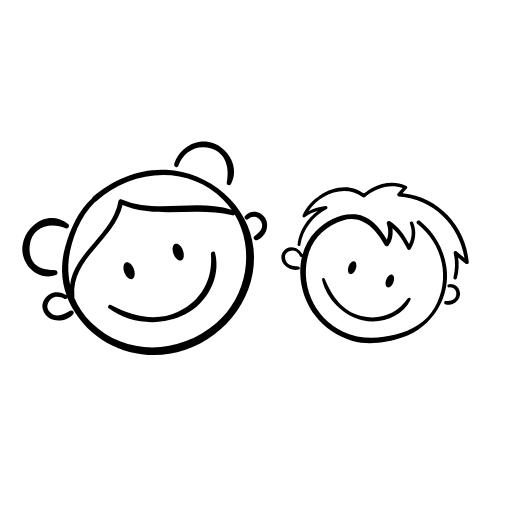
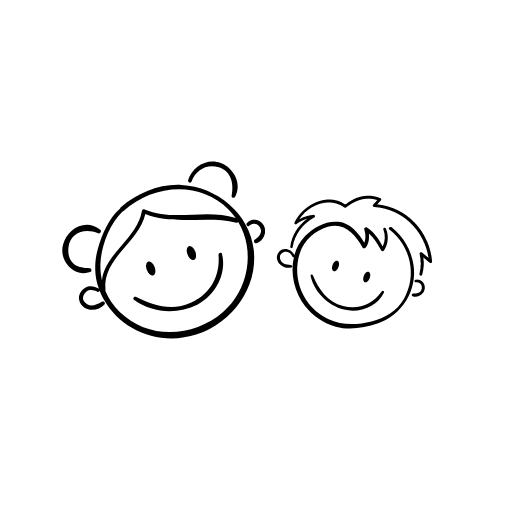
Dyeing the hair red, and minor corrections

Changed region(s): [[0.0312, 0.25, 0.5312, 0.7188], [0.5312, 0.3438, 0.9375, 0.6875]]

diff --git a/pages/index.vue b/pages/index.vue
@@ -3,7 +3,7 @@
 		<div class="home__greeting">
 			<svg class="greeting__picture" xmlns="http://www.w3.org/2000/svg" xmlns:xlink="http://www.w3.org/1999/xlink" width="800" height="400" viewBox="0 0 800 400">
 				<g id="greeting-svg" clip-path="url(#clip-greeting-picture)">
-					<g id="girl" transform="translate(22.737 155.001)"><path id="Path_81" data-name="Path 81" d="M-489.63,164.96s2.861,4.049,3.741,19.675-3.741,32.792-3.741,32.792a133.15,133.15,0,0,0-9.683,20.247c-3.961,10.784-3.3,22.448-3.3,22.448s4.181-5.722,16.726-4.622,19.587,5.722,31.031,4.622,31.845-10.189,51.212-33.077c-14.305-2-23.746-9.441-44.06-42.409-9.531-8.9-16.88-17.672-32.616-23.68Z" transform="translate(580.002 -96.954)" fill="#ffd324"/><path id="Path_83" data-name="Path 83" d="M190.258,1333.521c.286-3.433,9.155-18.024,21.458-14.019s6.866,27.466,6.866,27.466a74.518,74.518,0,0,0-15.163-9.441C195.245,1334.409,190.068,1335.8,190.258,1333.521Z" transform="translate(-103.737 -1367.001)" fill="#eb4d4d"/><path id="Path_84" data-name="Path 84" d="M30.159-.864S15.281-10.305,3.837,2.855C-4.174,14.3,11.562,22.31,11.562,22.31s9.155,3.147,13.447,0a49.615,49.615,0,0,1,1.144-10.872A86.637,86.637,0,0,1,30.159-.864Z" fill="#eb4d4d"/><g id="Layer_1-2" data-name="Layer 1" transform="translate(0.002 -51.001)"><path id="Path_40" data-name="Path 40" d="M42.329,126c2.178-1.755,5.289-1.061,7.448.174a1.14,1.14,0,0,0,1.587-.7,45.256,45.256,0,0,0,2.57,5.472c12.736,22.887,40,32.789,64.729,24.576,24.4-8.113,42.172-32.127,39.347-58.174C155.274,72.1,132.7,53.572,107.995,52.241c-15.433-.828-30.341,5.565-41.941,15.418a1.618,1.618,0,0,0-.523.8C57.495,75.542,52.937,86.433,50.106,96.5a45.1,45.1,0,0,0,.747,27.581c-2.8-1.711-6.4-2.489-9.411-.744-2.952,1.7-5.052,5.158-4.187,8.636,1.944,7.871,12.621,8.493,17.44,2.934,1.048-1.207-.572-2.616-1.8-1.9-4.044,2.352-8.729,4.529-12.2-.1C38.954,130.59,40.385,127.572,42.329,126Zm104.91-48.166c11.865,19.729,7.326,46.838-10.493,62.219-20.613,17.779-51.585,19.375-71.638-.171a43.752,43.752,0,0,1-9.827-14.5,1.142,1.142,0,0,0,.124-.622C53.423,102.955,78.416,92.247,82.98,72.412c19.835,8.2,42.365.594,62.94,5.911a1.2,1.2,0,0,0,1.319-.488ZM52.2,103.164C53.6,91.918,58.8,78.587,67.21,70.6a1.422,1.422,0,0,0,.728-.361C88.371,52,120.2,49.006,140.51,69.227a44.643,44.643,0,0,1,5.005,5.939c-20.408-6.713-42.822,2.61-62.984-5.967a1.4,1.4,0,0,0-1.941,1.045c-3.042,18.554-25.435,29.47-27.628,47.88a43.354,43.354,0,0,1-.759-14.96Z" transform="translate(-25.531 -35.939)" fill="#303030"/><path id="Path_41" data-name="Path 41" d="M411.227,133.848A4.671,4.671,0,0,1,419,135.584c1.475,3.481-1.378,6.091-3.9,7.855a1.391,1.391,0,0,0,1.316,2.411c4.847-1.587,7.36-7.877,4.865-12.332-2.427-4.324-8.415-5.469-11.741-1.456C408.663,133.12,410.172,134.818,411.227,133.848Z" transform="translate(-281.956 -89.274)" fill="#303030"/><path id="Path_42" data-name="Path 42" d="M191.276,232.138c1.493-.551,1.919-3.13.933-5.758s-2.968-4.312-4.461-3.761-1.916,3.13-.933,5.758S189.782,232.689,191.276,232.138Z" transform="translate(-128.333 -153.292)" fill="#303030"/><path id="Path_43" data-name="Path 43" d="M281.76,197.9c1.493-.551,1.919-3.13.949-5.755s-2.968-4.315-4.461-3.761-1.916,3.111-.933,5.755S280.273,198.46,281.76,197.9Z" transform="translate(-190.679 -129.709)" fill="#303030"/><path id="Path_44" data-name="Path 44" d="M198.1,237.471c-13.1,6.153-26.359,2.277-38.47-3.948a1.171,1.171,0,0,0-1.219,1.966c12.422,9.267,30.129,10.4,43.8,3.441,12.478-6.356,20.607-21.26,17.079-35.153-.358-1.4-2.489-.759-2.386.588C218.151,218.858,211.438,231.209,198.1,237.471Z" transform="translate(-108.84 -139.841)" fill="#303030"/><path id="Path_45" data-name="Path 45" d="M344.465,441.624c.849-1.244.426-3.338-1.332-3.49-19.714-1.717-29.221-21.269-39.344-35.6-7.466-10.555-22.75-26.038-36.459-27.55-2.178-.243-3.722,1.049-1.532,1.372,8.4,1.244,20.088,11.777,25.653,17.735,5.733,6.15,10.422,13.085,15.016,20.1,7.914,12.086,17.707,24.94,32.509,27.734-10.288,13.8-26.39,26.222-43.164,29.554-16.6,3.3-34.625-9.495-50.229-1.1a58.607,58.607,0,0,1,4.523-21.879c2.884-6.978,7.071-13.066,9.373-20.342,4.25-13.553,4.079-35.106-.488-48.556-.6-1.767-3.136-1.7-2.654.036,4.218,15.194,3.459,38.8-2.567,53.395-2.918,7.071-7.227,13.206-9.526,20.588a59.092,59.092,0,0,0-2.339,20.317,1.88,1.88,0,0,0,2.955,1.3c8.711-6.452,19.515-3.938,29.218-1.664,9.541,2.234,18.23,2.881,27.765.311,9.022-2.436,16.83-7.886,24.231-13.377A80.04,80.04,0,0,0,344.465,441.624Z" transform="translate(-166.599 -259.697)" fill="#303030"/><path id="Path_46" data-name="Path 46" d="M209.462,412.661a140.122,140.122,0,0,1-9.18,27.124c-4.383,9.2-10.307,17.216-16.522,25.223a1.191,1.191,0,0,0,1.842,1.509c13.859-13.766,23.668-34.18,26.692-53.408A1.434,1.434,0,0,0,209.462,412.661Z" transform="translate(-126.401 -283.492)" fill="#303030"/><path id="Path_47" data-name="Path 47" d="M365.227,262.646a1.208,1.208,0,0,0,1.419,1.954c19.328-12.951,37.462-30.484,49.815-50.288.815-1.307-.911-2.853-1.9-1.555-6.844,8.935-13.644,17.732-21.465,25.867A226.691,226.691,0,0,1,365.227,262.646Z" transform="translate(-251.271 -146.231)" fill="#303030"/><path id="Path_48" data-name="Path 48" d="M188.594,686.095c-1.344,2.629-2.616,5.289-3.873,7.961-1.384,2.934-2.71,7.911-5.945,9.457-3.036,1.447-7.672-2.769-10.31-4.169a39.467,39.467,0,0,0-9.846-3.475,27.6,27.6,0,0,0-18.065,2.249c-6.819,3.347-16.522,18.432-7.024,23.864,3.836,2.178,9.414-2.977,11.713-5.4a18.08,18.08,0,0,0,4.576-14.78,1.508,1.508,0,0,0-3,.336,16.947,16.947,0,0,1-7.031,15.107q-3.322,3.214-6.695-1.288a14.957,14.957,0,0,1,1.145-6.692,16.545,16.545,0,0,1,6.381-7.69c10.994-7.746,23.528-.706,33.474,4.666,9.435,5.1,14.621-13.539,16.958-19.033A1.351,1.351,0,0,0,188.594,686.095Z" transform="translate(-89.263 -472.134)" fill="#303030"/><path id="Path_49" data-name="Path 49" d="M578.081,654.052c-6.754-1.064-12.133,5.183-15.62,10.017-1.076,1.487,1.048,3.263,2.218,1.817,3.811-4.722,11.442-13.47,17.558-6.5,4.775,5.438-5.17,9.551-8.763,10.266a42.027,42.027,0,0,1-11.461.868c-6.514-.544-8.511-5.954-6.608-11.654.159-.482.333-.961.5-1.443q1.717-4.937,3.45-9.874l5.989-17.085c4.007-11.433-16.83-11.016-23.114-10.605-1.748.112-1.366,2.616.311,2.638a98.38,98.38,0,0,1,15.06,1.736c3.855.647,5.376,3.649,4.247,6.869L557.2,644.34c-2.451,6.95-8.785,18.078-4.063,24.922,4.147,6.01,13.109,4.76,19.182,3.926,6.244-.859,12.708-3.347,13.94-10.207C587.165,657.95,582.359,654.724,578.081,654.052Z" transform="translate(-372.761 -426.92)" fill="#303030"/><path id="Path_50" data-name="Path 50" d="M151.446,593.76a1.248,1.248,0,0,0-.868-2.234,12.892,12.892,0,0,0-3.49,1.024l-4.15,1.5c-1.633.591-.66,3.055.977,2.5l3.662-1.244A13.907,13.907,0,0,0,151.446,593.76Z" transform="translate(-97.892 -407.505)" fill="#303030"/><path id="Path_51" data-name="Path 51" d="M156.854,605.335c3.173-2.078,6.894-5.463,8-9.211.38-1.288-1.447-1.8-2.2-.986-1.2,1.316-2.038,3-3.186,4.383a29.136,29.136,0,0,1-4.019,3.889A1.19,1.19,0,0,0,156.854,605.335Z" transform="translate(-106.769 -409.723)" fill="#303030"/><path id="Path_52" data-name="Path 52" d="M190.408,597.14a35.947,35.947,0,0,0,.367,6.928c.115,1.471,2.252,1.173,2.237-.249a34.865,34.865,0,0,0-.227-6.626C192.517,595.949,190.582,595.709,190.408,597.14Z" transform="translate(-131.117 -410.699)" fill="#303030"/><path id="Path_53" data-name="Path 53" d="M522.117,169.411a44.044,44.044,0,0,0,.414-5.87,37.407,37.407,0,0,0,.072-5.41,1.244,1.244,0,0,0-2.455-.056,39.925,39.925,0,0,0-.311,5.886,42.26,42.26,0,0,0,0,5.4A1.156,1.156,0,0,0,522.117,169.411Z" transform="translate(-358.057 -108.2)" fill="#303030"/><path id="Path_54" data-name="Path 54" d="M535.373,169.306c1.328-3.733,3.335-7.84,3.8-11.8a1.253,1.253,0,0,0-2.367-.712c-1.923,3.469-2.682,8-3.783,11.8C532.633,169.941,534.907,170.613,535.373,169.306Z" transform="translate(-367.172 -107.542)" fill="#303030"/><path id="Path_55" data-name="Path 55" d="M544.274,192.123c2.106-1.605,4.461-3.17,6.122-5.257.933-1.157-.51-2.442-1.677-1.773-2.305,1.322-4.2,3.422-6.11,5.267C541.592,191.333,543.188,192.948,544.274,192.123Z" transform="translate(-373.584 -127.385)" fill="#303030"/><path id="Path_56" data-name="Path 56" d="M23.3,172.762c1.322-.451,2.107-2.588.7-2.735-3.923-.408-11.115.34-14.45-2.118-3.494-2.573-5.713-6.937-5.308-10.975,1.079-10.814,14.8-12.918,23.532-9.008a1.423,1.423,0,0,0,1.484-2.386C19.178,137.35,3.486,143.736.509,154.9-2.444,165.948,11.993,176.623,23.3,172.762Z" transform="translate(-0.002 -97.174)" fill="#303030"/><path id="Path_57" data-name="Path 57" d="M281.06,16.977C283.8,8.941,292.6,1.493,300.865,4.078c8.826,2.759,8.537,15.685,6.9,23.633-.311,1.5.783,2.954,1.445,1.734,4.931-9.124,2.014-24.854-6.986-28.366-9.5-3.705-20.677,5.588-23.542,14.822C278.2,17.472,280.512,18.582,281.06,16.977Z" transform="translate(-193.631 1.001)" fill="#303030"/></g></g>
+					<g id="girl" transform="translate(22.737 155.001)"><path id="Path_98" data-name="Path 98" d="M65.363,43.355s-3.739,13.258-11.007,21.6-18.035,19.65-17.6,32.1c0,0-8.507-15.676,1.981-37.749S64.942,33.232,64.942,33.232s19.293-9.458,38.675-3.267a53.956,53.956,0,0,1,28.4,21.653c-9.022-2.811-19.012-3.523-37.119-3.1S65.363,43.355,65.363,43.355Z" transform="translate(-8.737 -61.001)" fill="#eb4d4d"/><path id="Path_81" data-name="Path 81" d="M-489.63,164.96s2.861,4.049,3.741,19.675-3.741,32.792-3.741,32.792a133.15,133.15,0,0,0-9.683,20.247c-3.961,10.784-3.3,22.448-3.3,22.448s4.181-5.722,16.726-4.622,19.587,5.722,31.031,4.622,31.845-10.189,51.212-33.077c-14.305-2-23.746-9.441-44.06-42.409-9.531-8.9-16.88-17.672-32.616-23.68Z" transform="translate(580.002 -96.954)" fill="#ffd324"/><path id="Path_83" data-name="Path 83" d="M190.258,1333.521c.286-3.433,9.155-18.024,21.458-14.019s6.866,27.466,6.866,27.466a74.518,74.518,0,0,0-15.163-9.441C195.245,1334.409,190.068,1335.8,190.258,1333.521Z" transform="translate(-103.737 -1367.001)" fill="#eb4d4d"/><path id="Path_84" data-name="Path 84" d="M30.159-.864S15.281-10.305,3.837,2.855C-4.174,14.3,11.562,22.31,11.562,22.31s9.155,3.147,13.447,0a49.615,49.615,0,0,1,1.144-10.872A86.637,86.637,0,0,1,30.159-.864Z" fill="#eb4d4d"/><g id="Layer_1-2" data-name="Layer 1" transform="translate(0.002 -51.001)"><path id="Path_40" data-name="Path 40" d="M42.329,126c2.178-1.755,5.289-1.061,7.448.174a1.14,1.14,0,0,0,1.587-.7,45.256,45.256,0,0,0,2.57,5.472c12.736,22.887,40,32.789,64.729,24.576,24.4-8.113,42.172-32.127,39.347-58.174C155.274,72.1,132.7,53.572,107.995,52.241c-15.433-.828-30.341,5.565-41.941,15.418a1.618,1.618,0,0,0-.523.8C57.495,75.542,52.937,86.433,50.106,96.5a45.1,45.1,0,0,0,.747,27.581c-2.8-1.711-6.4-2.489-9.411-.744-2.952,1.7-5.052,5.158-4.187,8.636,1.944,7.871,12.621,8.493,17.44,2.934,1.048-1.207-.572-2.616-1.8-1.9-4.044,2.352-8.729,4.529-12.2-.1C38.954,130.59,40.385,127.572,42.329,126Zm104.91-48.166c11.865,19.729,7.326,46.838-10.493,62.219-20.613,17.779-51.585,19.375-71.638-.171a43.752,43.752,0,0,1-9.827-14.5,1.142,1.142,0,0,0,.124-.622C53.423,102.955,78.416,92.247,82.98,72.412c19.835,8.2,42.365.594,62.94,5.911a1.2,1.2,0,0,0,1.319-.488ZM52.2,103.164C53.6,91.918,58.8,78.587,67.21,70.6a1.422,1.422,0,0,0,.728-.361C88.371,52,120.2,49.006,140.51,69.227a44.643,44.643,0,0,1,5.005,5.939c-20.408-6.713-42.822,2.61-62.984-5.967a1.4,1.4,0,0,0-1.941,1.045c-3.042,18.554-25.435,29.47-27.628,47.88a43.354,43.354,0,0,1-.759-14.96Z" transform="translate(-25.531 -35.939)" fill="#303030"/><path id="Path_41" data-name="Path 41" d="M411.227,133.848A4.671,4.671,0,0,1,419,135.584c1.475,3.481-1.378,6.091-3.9,7.855a1.391,1.391,0,0,0,1.316,2.411c4.847-1.587,7.36-7.877,4.865-12.332-2.427-4.324-8.415-5.469-11.741-1.456C408.663,133.12,410.172,134.818,411.227,133.848Z" transform="translate(-281.956 -89.274)" fill="#303030"/><path id="Path_42" data-name="Path 42" d="M191.276,232.138c1.493-.551,1.919-3.13.933-5.758s-2.968-4.312-4.461-3.761-1.916,3.13-.933,5.758S189.782,232.689,191.276,232.138Z" transform="translate(-128.333 -153.292)" fill="#303030"/><path id="Path_43" data-name="Path 43" d="M281.76,197.9c1.493-.551,1.919-3.13.949-5.755s-2.968-4.315-4.461-3.761-1.916,3.111-.933,5.755S280.273,198.46,281.76,197.9Z" transform="translate(-190.679 -129.709)" fill="#303030"/><path id="Path_44" data-name="Path 44" d="M198.1,237.471c-13.1,6.153-26.359,2.277-38.47-3.948a1.171,1.171,0,0,0-1.219,1.966c12.422,9.267,30.129,10.4,43.8,3.441,12.478-6.356,20.607-21.26,17.079-35.153-.358-1.4-2.489-.759-2.386.588C218.151,218.858,211.438,231.209,198.1,237.471Z" transform="translate(-108.84 -139.841)" fill="#303030"/><path id="Path_45" data-name="Path 45" d="M344.465,441.624c.849-1.244.426-3.338-1.332-3.49-19.714-1.717-29.221-21.269-39.344-35.6-7.466-10.555-22.75-26.038-36.459-27.55-2.178-.243-3.722,1.049-1.532,1.372,8.4,1.244,20.088,11.777,25.653,17.735,5.733,6.15,10.422,13.085,15.016,20.1,7.914,12.086,17.707,24.94,32.509,27.734-10.288,13.8-26.39,26.222-43.164,29.554-16.6,3.3-34.625-9.495-50.229-1.1a58.607,58.607,0,0,1,4.523-21.879c2.884-6.978,7.071-13.066,9.373-20.342,4.25-13.553,4.079-35.106-.488-48.556-.6-1.767-3.136-1.7-2.654.036,4.218,15.194,3.459,38.8-2.567,53.395-2.918,7.071-7.227,13.206-9.526,20.588a59.092,59.092,0,0,0-2.339,20.317,1.88,1.88,0,0,0,2.955,1.3c8.711-6.452,19.515-3.938,29.218-1.664,9.541,2.234,18.23,2.881,27.765.311,9.022-2.436,16.83-7.886,24.231-13.377A80.04,80.04,0,0,0,344.465,441.624Z" transform="translate(-166.599 -259.697)" fill="#303030"/><path id="Path_46" data-name="Path 46" d="M209.462,412.661a140.122,140.122,0,0,1-9.18,27.124c-4.383,9.2-10.307,17.216-16.522,25.223a1.191,1.191,0,0,0,1.842,1.509c13.859-13.766,23.668-34.18,26.692-53.408A1.434,1.434,0,0,0,209.462,412.661Z" transform="translate(-126.401 -283.492)" fill="#303030"/><path id="Path_47" data-name="Path 47" d="M365.227,262.646a1.208,1.208,0,0,0,1.419,1.954c19.328-12.951,37.462-30.484,49.815-50.288.815-1.307-.911-2.853-1.9-1.555-6.844,8.935-13.644,17.732-21.465,25.867A226.691,226.691,0,0,1,365.227,262.646Z" transform="translate(-251.271 -146.231)" fill="#303030"/><path id="Path_48" data-name="Path 48" d="M188.594,686.095c-1.344,2.629-2.616,5.289-3.873,7.961-1.384,2.934-2.71,7.911-5.945,9.457-3.036,1.447-7.672-2.769-10.31-4.169a39.467,39.467,0,0,0-9.846-3.475,27.6,27.6,0,0,0-18.065,2.249c-6.819,3.347-16.522,18.432-7.024,23.864,3.836,2.178,9.414-2.977,11.713-5.4a18.08,18.08,0,0,0,4.576-14.78,1.508,1.508,0,0,0-3,.336,16.947,16.947,0,0,1-7.031,15.107q-3.322,3.214-6.695-1.288a14.957,14.957,0,0,1,1.145-6.692,16.545,16.545,0,0,1,6.381-7.69c10.994-7.746,23.528-.706,33.474,4.666,9.435,5.1,14.621-13.539,16.958-19.033A1.351,1.351,0,0,0,188.594,686.095Z" transform="translate(-89.263 -472.134)" fill="#303030"/><path id="Path_49" data-name="Path 49" d="M578.081,654.052c-6.754-1.064-12.133,5.183-15.62,10.017-1.076,1.487,1.048,3.263,2.218,1.817,3.811-4.722,11.442-13.47,17.558-6.5,4.775,5.438-5.17,9.551-8.763,10.266a42.027,42.027,0,0,1-11.461.868c-6.514-.544-8.511-5.954-6.608-11.654.159-.482.333-.961.5-1.443q1.717-4.937,3.45-9.874l5.989-17.085c4.007-11.433-16.83-11.016-23.114-10.605-1.748.112-1.366,2.616.311,2.638a98.38,98.38,0,0,1,15.06,1.736c3.855.647,5.376,3.649,4.247,6.869L557.2,644.34c-2.451,6.95-8.785,18.078-4.063,24.922,4.147,6.01,13.109,4.76,19.182,3.926,6.244-.859,12.708-3.347,13.94-10.207C587.165,657.95,582.359,654.724,578.081,654.052Z" transform="translate(-372.761 -426.92)" fill="#303030"/><path id="Path_50" data-name="Path 50" d="M151.446,593.76a1.248,1.248,0,0,0-.868-2.234,12.892,12.892,0,0,0-3.49,1.024l-4.15,1.5c-1.633.591-.66,3.055.977,2.5l3.662-1.244A13.907,13.907,0,0,0,151.446,593.76Z" transform="translate(-97.892 -407.505)" fill="#303030"/><path id="Path_51" data-name="Path 51" d="M156.854,605.335c3.173-2.078,6.894-5.463,8-9.211.38-1.288-1.447-1.8-2.2-.986-1.2,1.316-2.038,3-3.186,4.383a29.136,29.136,0,0,1-4.019,3.889A1.19,1.19,0,0,0,156.854,605.335Z" transform="translate(-106.769 -409.723)" fill="#303030"/><path id="Path_52" data-name="Path 52" d="M190.408,597.14a35.947,35.947,0,0,0,.367,6.928c.115,1.471,2.252,1.173,2.237-.249a34.865,34.865,0,0,0-.227-6.626C192.517,595.949,190.582,595.709,190.408,597.14Z" transform="translate(-131.117 -410.699)" fill="#303030"/><path id="Path_53" data-name="Path 53" d="M522.117,169.411a44.044,44.044,0,0,0,.414-5.87,37.407,37.407,0,0,0,.072-5.41,1.244,1.244,0,0,0-2.455-.056,39.925,39.925,0,0,0-.311,5.886,42.26,42.26,0,0,0,0,5.4A1.156,1.156,0,0,0,522.117,169.411Z" transform="translate(-358.057 -108.2)" fill="#303030"/><path id="Path_54" data-name="Path 54" d="M535.373,169.306c1.328-3.733,3.335-7.84,3.8-11.8a1.253,1.253,0,0,0-2.367-.712c-1.923,3.469-2.682,8-3.783,11.8C532.633,169.941,534.907,170.613,535.373,169.306Z" transform="translate(-367.172 -107.542)" fill="#303030"/><path id="Path_55" data-name="Path 55" d="M544.274,192.123c2.106-1.605,4.461-3.17,6.122-5.257.933-1.157-.51-2.442-1.677-1.773-2.305,1.322-4.2,3.422-6.11,5.267C541.592,191.333,543.188,192.948,544.274,192.123Z" transform="translate(-373.584 -127.385)" fill="#303030"/><path id="Path_56" data-name="Path 56" d="M23.3,172.762c1.322-.451,2.107-2.588.7-2.735-3.923-.408-11.115.34-14.45-2.118-3.494-2.573-5.713-6.937-5.308-10.975,1.079-10.814,14.8-12.918,23.532-9.008a1.423,1.423,0,0,0,1.484-2.386C19.178,137.35,3.486,143.736.509,154.9-2.444,165.948,11.993,176.623,23.3,172.762Z" transform="translate(-0.002 -97.174)" fill="#303030"/><path id="Path_57" data-name="Path 57" d="M281.06,16.977C283.8,8.941,292.6,1.493,300.865,4.078c8.826,2.759,8.537,15.685,6.9,23.633-.311,1.5.783,2.954,1.445,1.734,4.931-9.124,2.014-24.854-6.986-28.366-9.5-3.705-20.677,5.588-23.542,14.822C278.2,17.472,280.512,18.582,281.06,16.977Z" transform="translate(-193.631 1.001)" fill="#303030"/></g></g>
 					<g id="boy" transform="translate(632.738 46.052)"><path id="Path_80" data-name="Path 80" d="M742.763,285.881a119.016,119.016,0,0,1,20.147.511c10.722,1.23,21.124,2.776,21.838,4.408A37.748,37.748,0,0,1,787,300.316a42.09,42.09,0,0,1,0,7.573c-1.349-.261-15.674-.561-19.18,1.342a14.967,14.967,0,0,0-1.8-5.71c-1.305-2.338-3.358-4.8-3.807-4.207-.9,1.2-2.5,9.016-2.5,9.016-3.606-1.262-16.656-3.443-19.433-2.7s.511-5.439,1.391-10.5c.67-3.852,1.1-5.928,1.1-5.928C742.983,289.035,741.473,285.881,742.763,285.881Z" transform="translate(-683.738 -156.052)" fill="#23b800"/><path id="Path_82" data-name="Path 82" d="M93.213,90.609s12.175,18.185,11.327,44.384c0,0-11.414-2.582-19.418-4.007C56,126.9,56.728,132.219,57.459,128.135c2.9-11.275,4.851-19.74,6.7-27.047a66.819,66.819,0,0,1,3.005-11.1c16.875,5.163,26.612.574,26.045.616" transform="translate(0 -0.006)" fill="#57bde9"/><g id="Layer_1" data-name="Layer 1" transform="translate(0 -0.006)"><path id="Path_58" data-name="Path 58" d="M141.765,124a8.7,8.7,0,0,0,8.886-.184c.948-.616.07-1.889-.877-1.621a12.134,12.134,0,0,1-5.01.772,4.984,4.984,0,0,1-4.131-3.8c-.456-1.974,1.121-3.687,2.808-4.387,1.941-.814,4.1.314,5.436,1.667a.733.733,0,0,0,1,.015c1.43,11.694,8.866,22.8,18.74,29.017a41.3,41.3,0,0,0,24.939,6.19c9.612-.713,18.968-5.964,26.358-11.865A37.256,37.256,0,0,0,229.4,93.05a41.486,41.486,0,0,0-23.033-19.185c-1.378-.472-2.31,1.619-.934,2.06,17.805,5.7,29.021,23.123,25.836,41.7-1.652,9.639-7.864,16.825-15.739,22.184-8.581,5.837-18.325,9.672-28.83,8.7a37.644,37.644,0,0,1-33.913-36.214c-.259-9.257,4.585-18.121,11.891-23.6,9.459-7.094,19.762-1.68,27.512,5.124a1.3,1.3,0,0,0,1.99-.463c1.2-3.111.426-7-1.2-10.126,4.62,1.7,8.412,4.9,12.106,8.226a1.108,1.108,0,0,0,1.779-.68A16.282,16.282,0,0,0,203,76.1c-.809-.895-2.347.171-1.536,1.119a14.558,14.558,0,0,1,3.573,11.209c-4.335-3.894-8.9-7.239-14.75-8.529a1.252,1.252,0,0,0-1.2,1.957c1.7,2.077,3.332,5.587,3.139,8.592-5.982-4.953-13.82-9.527-21.734-7.539-8.5,2.134-14.844,9.349-18.284,17.11a30.73,30.73,0,0,0-2.477,14.943c-3.694-3.6-10.237-2.742-11.17,2.983C138.177,120.3,139.807,122.846,141.765,124Z" transform="translate(-108.125 -57.607)" fill="#303030"/><path id="Path_59" data-name="Path 59" d="M573.382,201.08c-.8.555-.061,1.987.829,1.52a3.613,3.613,0,0,1,5.451,2.9c.388,2.878-2.253,4.282-4.5,5.056-1.1.375-.605,1.946.463,1.88a6.7,6.7,0,0,0,5.962-7.974A5.353,5.353,0,0,0,573.382,201.08Z" transform="translate(-447.338 -156.237)" fill="#303030"/><ellipse id="Ellipse_2" data-name="Ellipse 2" cx="2.191" cy="3.856" rx="2.191" ry="3.856" transform="translate(68.723 50.84)" fill="#303030"/><path id="Path_60" data-name="Path 60" d="M421.947,234.736c0-2.13-.983-3.856-2.194-3.856s-2.194,1.726-2.194,3.856.981,3.856,2.194,3.856S421.947,236.866,421.947,234.736Z" transform="translate(-325.965 -180.233)" fill="#303030"/><path id="Path_61" data-name="Path 61" d="M260.875,278.175a.822.822,0,0,0-1.329.965c6.282,9.663,18.33,15.013,29.649,13.945,10.6-1,20.815-9.509,21.947-20.424a.874.874,0,0,0-1.726-.272c-2.788,10.512-10.749,17.461-21.649,18.624C276.675,292.2,267.912,285.938,260.875,278.175Z" transform="translate(-202.49 -212.087)" fill="#303030"/><path id="Path_62" data-name="Path 62" d="M156.5,36.668a20.2,20.2,0,0,1,5.655-5.945,28.373,28.373,0,0,0-4.361,22.116c.239,1.022,1.873.877,1.656-.186-1.814-8.963,1.125-17.768,7.092-24.555a.958.958,0,0,0-1.081-1.489,25.279,25.279,0,0,0-8.316,6.23c2.81-11.716,14.35-21.874,26.656-18.22a.986.986,0,0,0,1.042-.562c4.168-6.743,10.42-11.938,18.5-12.087-.535,1.3-1.068,2.606-1.625,3.9a.988.988,0,0,0,1.25,1.316c18.986-5.427,37.969,3.455,47.362,20.242-1.816-.641-3.63-1.281-5.442-1.935a1.051,1.051,0,0,0-1.275,1.562,29.1,29.1,0,0,1,4.578,12.995.983.983,0,0,0,1.952-.219A28.6,28.6,0,0,0,246.82,28.4q2.632.945,5.265,1.9c.8.292,1.849-.439,1.426-1.349C244.79,10.213,224.377-.375,204.292,4.784c.474-1.123.952-2.246,1.419-3.372a1,1,0,0,0-.748-1.389,21.664,21.664,0,0,0-13.526,3.817,27.445,27.445,0,0,0-6.269,6.223c-.454.592-1.158,2.6-2.229,2.279a15.892,15.892,0,0,0-4.894-.605c-12.212.406-22.2,12.734-23.213,24.43A.883.883,0,0,0,156.5,36.668Z" transform="translate(-120.866 0.006)" fill="#303030"/><path id="Path_63" data-name="Path 63" d="M264.368,414.117c-3.51,12.591-7.361,28.373-10.676,41.015A1.019,1.019,0,0,0,254.8,456.3a127.307,127.307,0,0,1,47.52,4.907,1.162,1.162,0,0,0,1.338-.972c1-13.752-3.821-32.833-11.672-44.4-.774-1.141-1.4.092-.709,1.242,6.763,11.187,10.832,28.391,10.143,41.458a125.319,125.319,0,0,0-45.407-4.37c3.14-12.221,6.195-26.474,9.165-38.758C265.466,414.239,264.68,413,264.368,414.117Z" transform="translate(-198.022 -325.053)" fill="#303030"/><path id="Path_64" data-name="Path 64" d="M296.625,620.67a1.034,1.034,0,0,0,1.158-.845c.564-5.407.25-11.948-1.974-16.974-.507-1.147-2.323-1.45-1.821-.289,1.937,4.468,2.248,11.29,1.862,16.085a91.064,91.064,0,0,0-17.329,1.1c-.36-3.7-3.389-7.239-5.8-9.788a.987.987,0,0,0-1.755.423q-.915,4.258-1.946,8.487c-6.236-1.446-12.479-2.926-18.885-2.218.829-5.455,2.74-12.7,3.361-18.2.134-1.2-1.7-1.494-1.849-.294-.711,5.923-2.92,13.54-3.606,19.465a.975.975,0,0,0,1.062,1.112c6.976-1.1,13.732.7,20.488,2.262a.986.986,0,0,0,1.117-.812c.625-2.531,1.211-5.072,1.777-7.616,2.062,2.314,4.315,5.3,4.168,8.154-.029.566.386,1.233,1.051,1.1A83.672,83.672,0,0,1,296.625,620.67Z" transform="translate(-193.63 -467.91)" fill="#303030"/><path id="Path_65" data-name="Path 65" d="M272.94,713.063c-4.925-2.332-8.254-5.383-7.763-11.01.3-3.49,1.476-8.937,4.826-10.779.763-.421.039-1.755-.735-1.342-3.988,2.09-5.376,7.741-5.923,11.83-.768,5.745,2.064,9.112,6.868,11.986,7.048,4.216,20.76,6.919,16.915,18.347-1.59,4.725-12.284,7.767-9.908.566,1-3.034,5.754-4.979,7.943-7.151.658-.658-.417-1.786-1.112-1.178-2.5,2.187-6.4,3.942-8.024,6.947-.939,1.742-1.358,4.736-.1,6.436,1.338,1.8,5.333,1.033,7.044.544,3.854-1.1,6.059-5.045,6.432-8.774C290.357,719.938,279.736,716.281,272.94,713.063Z" transform="translate(-205.481 -538.527)" fill="#303030"/><path id="Path_66" data-name="Path 66" d="M460.973,635.3c-7.827-.583-7.919,8.031-6.629,13.477.29,1.228,2.266,1.029,1.974-.219-.658-2.83-1.255-5.455-.329-8.355a4.863,4.863,0,0,1,2.659-2.577c3.88-1.933,4.245,2.821,3.54,4.995-1.163,3.589-4.319,7-6.816,9.75-3.431,3.775-8.134,6.361-13.33,5.923-4.587-.386-5.809-5.616-7.75-8.967-.529-.912-2.095-.055-1.619.877,2.852,5.655,4.444,10.262,11.611,10.2,7.9-.066,13.6-7.311,17.729-13.1C463.961,644.568,467.359,635.776,460.973,635.3Z" transform="translate(-337.694 -495.918)" fill="#303030"/><path id="Path_67" data-name="Path 67" d="M106.7,356.16C91.52,347.2,73.89,341.853,57.225,336.332c-.992-.329-1.674,1.057-.684,1.507,16.215,7.375,33.808,11.1,49.479,19.83C106.961,358.193,107.606,356.693,106.7,356.16Z" transform="translate(-43.761 -262.514)" fill="#303030"/><path id="Path_68" data-name="Path 68" d="M480.238,458.063c-3.948-6.636-9.652-12.53-15.217-17.814-6.043-5.725-12.96-10.694-20.76-13.7-1.024-.393-1.726,1.114-.708,1.56a72.6,72.6,0,0,1,19.273,12.909c6.061,5.466,10.768,11.88,16,18.071a.877.877,0,0,0,1.413-1.027Z" transform="translate(-345.867 -332.931)" fill="#303030"/><path id="Path_69" data-name="Path 69" d="M46.791,293.07a34.834,34.834,0,0,1-3.071-7.533c-.272-.91-1.656-.509-1.573.388a15.878,15.878,0,0,0,3.387,8.064A.779.779,0,0,0,46.791,293.07Z" transform="translate(-32.899 -222.499)" fill="#303030"/><path id="Path_70" data-name="Path 70" d="M23.543,314.979a37.478,37.478,0,0,0-5.7-3.163c-.858-.338-1.689.834-.877,1.421a37.869,37.869,0,0,0,5.923,3.24C23.848,316.954,24.416,315.519,23.543,314.979Z" transform="translate(-12.983 -243.369)" fill="#303030"/><path id="Path_71" data-name="Path 71" d="M9.023,337.277a58.537,58.537,0,0,0-8.268-.34.877.877,0,0,0-.039,1.731,57.153,57.153,0,0,0,8.27.239C9.913,338.9,9.942,337.349,9.023,337.277Z" transform="translate(0 -262.985)" fill="#303030"/><path id="Path_72" data-name="Path 72" d="M608.216,586.326a38.513,38.513,0,0,0,2.033,7.458.831.831,0,0,0,1.593-.395,38.423,38.423,0,0,0-1.9-7.489A.9.9,0,0,0,608.216,586.326Z" transform="translate(-474.787 -456.947)" fill="#303030"/><path id="Path_73" data-name="Path 73" d="M624.306,583.991a13.077,13.077,0,0,1-2.009-3.181.868.868,0,0,0-1.617.632c.9,2.457,2.7,5.247,5.208,6.3a.847.847,0,0,0,.877-1.424C625.966,585.511,625.056,584.856,624.306,583.991Z" transform="translate(-484.48 -452.993)" fill="#303030"/><path id="Path_74" data-name="Path 74" d="M633.142,572.06a28.061,28.061,0,0,0-5.462-2.235.925.925,0,0,0-.763,1.685,28.9,28.9,0,0,0,5.719,2.242C633.695,573.986,633.936,572.538,633.142,572.06Z" transform="translate(-488.977 -444.782)" fill="#303030"/><path id="Path_75" data-name="Path 75" d="M341.978,432.078c.983-.671-.1-2.141-1.079-1.487a13.3,13.3,0,0,1-16.522-1.353c-.733-.658-1.6.485-.948,1.158A14.584,14.584,0,0,0,341.978,432.078Z" transform="translate(-252.302 -334.925)" fill="#303030"/></g></g>
 					<g class="picture__written-letters" id="letters" transform="translate(300 30)">
 						<path class="written-letter" id="i-letter" d="M733.071,2060.1s-.122-81.568,0-87.8-2.353,39.959,27.451,38.391,37.606-47.843,36.822-41.568,0,90.98,0,90.98" transform="translate(-735 -1910.625)" fill="none" stroke="#eb4d4d" stroke-linecap="round" stroke-width="18"/>

diff --git a/layouts/default.vue b/layouts/default.vue
@@ -39,7 +39,7 @@
 <style lang="scss" scoped>
 	.default {
 		width: 100%;
-		height: 100vh;
+		height: 100%;
 		display: flex;
 		flex-direction: column;
 		.default__view {

diff --git a/nuxt.config.js b/nuxt.config.js
@@ -27,7 +27,7 @@ export default {
   plugins: [
     {
       src: '~/plugins/fragment.js',
-      ssr: false,
+      ssr: true,
     },
   ],
 

diff --git a/styles/global.scss b/styles/global.scss
@@ -6,6 +6,13 @@
 	box-sizing: border-box;
 }
 
+html,
+body,
+#__nuxt,
+#__layout {
+	height: 100%;
+}
+
 body {
 	margin: 0;
 	padding: 0;
